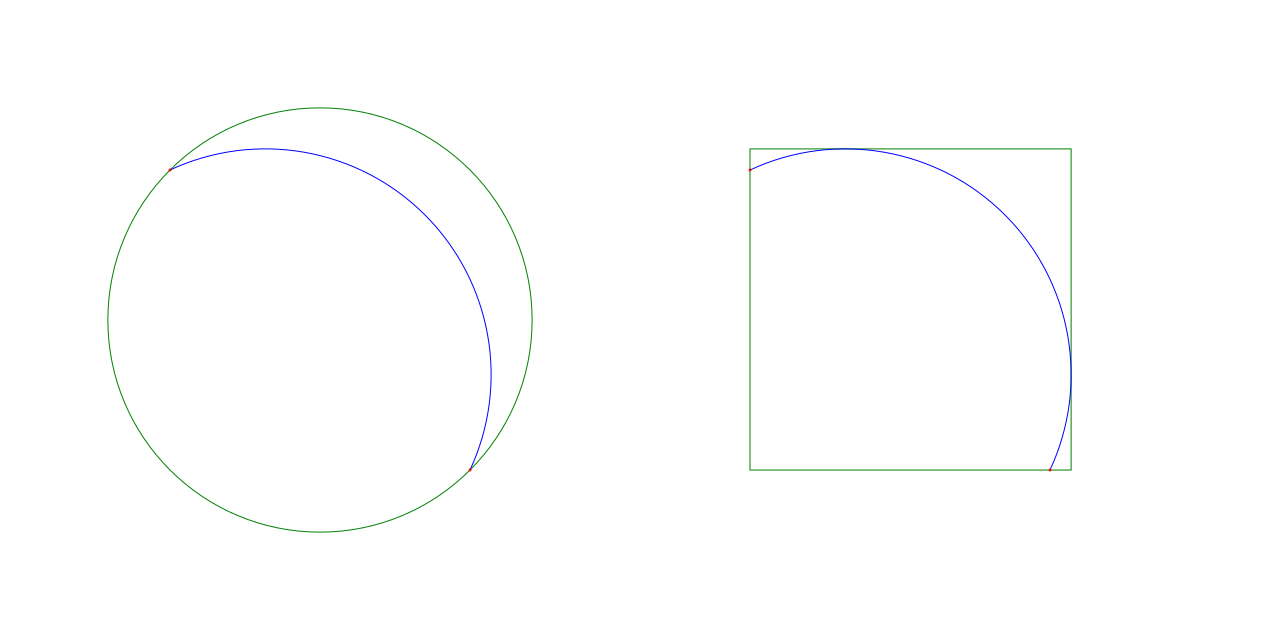
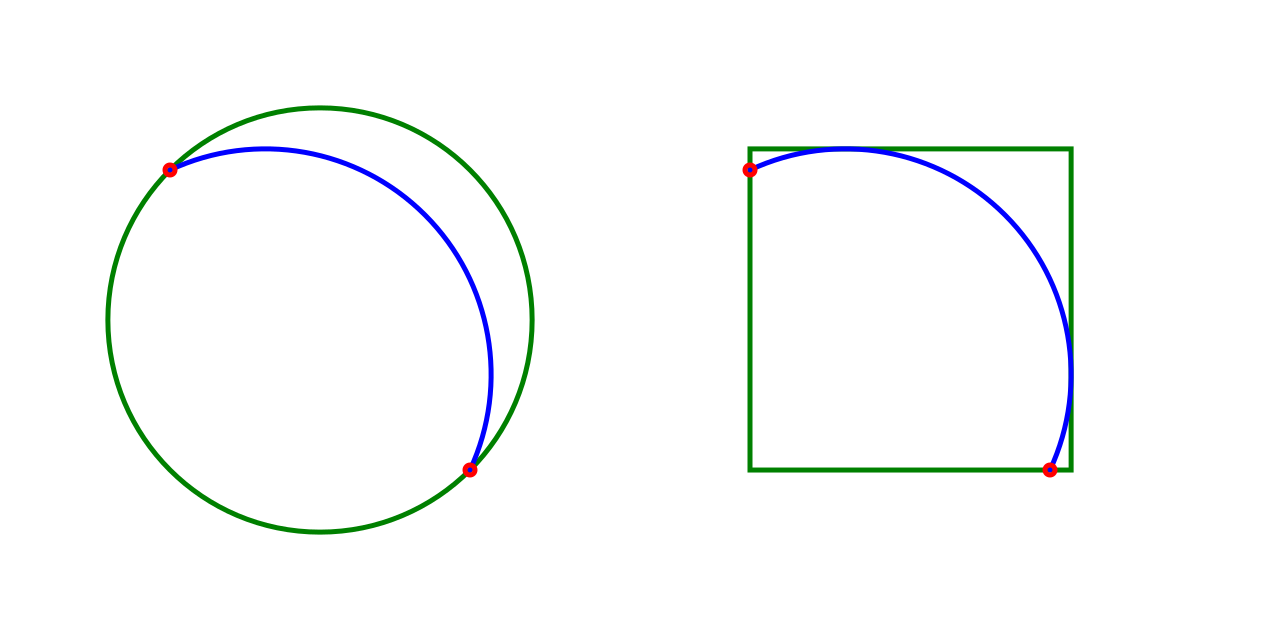
Update bounding example with increased circle size and stroke width for better visibility

diff --git a/examples/bounding.rs b/examples/bounding.rs
@@ -9,8 +9,8 @@ fn main() {
     let bounding_circle = arc_bounding_circle(&arc);
     svg.circle(&bounding_circle, "green");
     svg.arc(&arc, "blue");
-    svg.circle(&circle(arc.a, 1.0), "red");
-    svg.circle(&circle(arc.b, 1.0), "red");
+    svg.circle(&circle(arc.a, 5.0), "red");
+    svg.circle(&circle(arc.b, 5.0), "red");
 
 
     let mut arc = arc_circle_parametrization(point(70.0, 10.0), point(10.0, 70.0), 0.7);
@@ -19,7 +19,7 @@ fn main() {
     let bounding_rect = arc_bounding_rect(&arc);
     svg.rect(&bounding_rect, "green");
     svg.arc(&arc, "blue");
-    svg.circle(&circle(arc.a, 1.0), "red");
-    svg.circle(&circle(arc.b, 1.0), "red");
-    svg.write_stroke_width(1.0);
+    svg.circle(&circle(arc.a, 5.0), "red");
+    svg.circle(&circle(arc.b, 5.0), "red");
+    svg.write_stroke_width(5.0);
 }

diff --git a/src/svg.rs b/src/svg.rs
@@ -108,7 +108,7 @@ impl SVG {
         ).unwrap();
         write!(
             &mut header,
-            "\n<rect width=\"100%\" height=\"100%\" fill=\"#ffffff00\" />\n"
+            "\n<rect width=\"100%\" height=\"100%\" fill=\"#ffffffff\" />\n"
         )
         .unwrap();
         header.push('\n');
